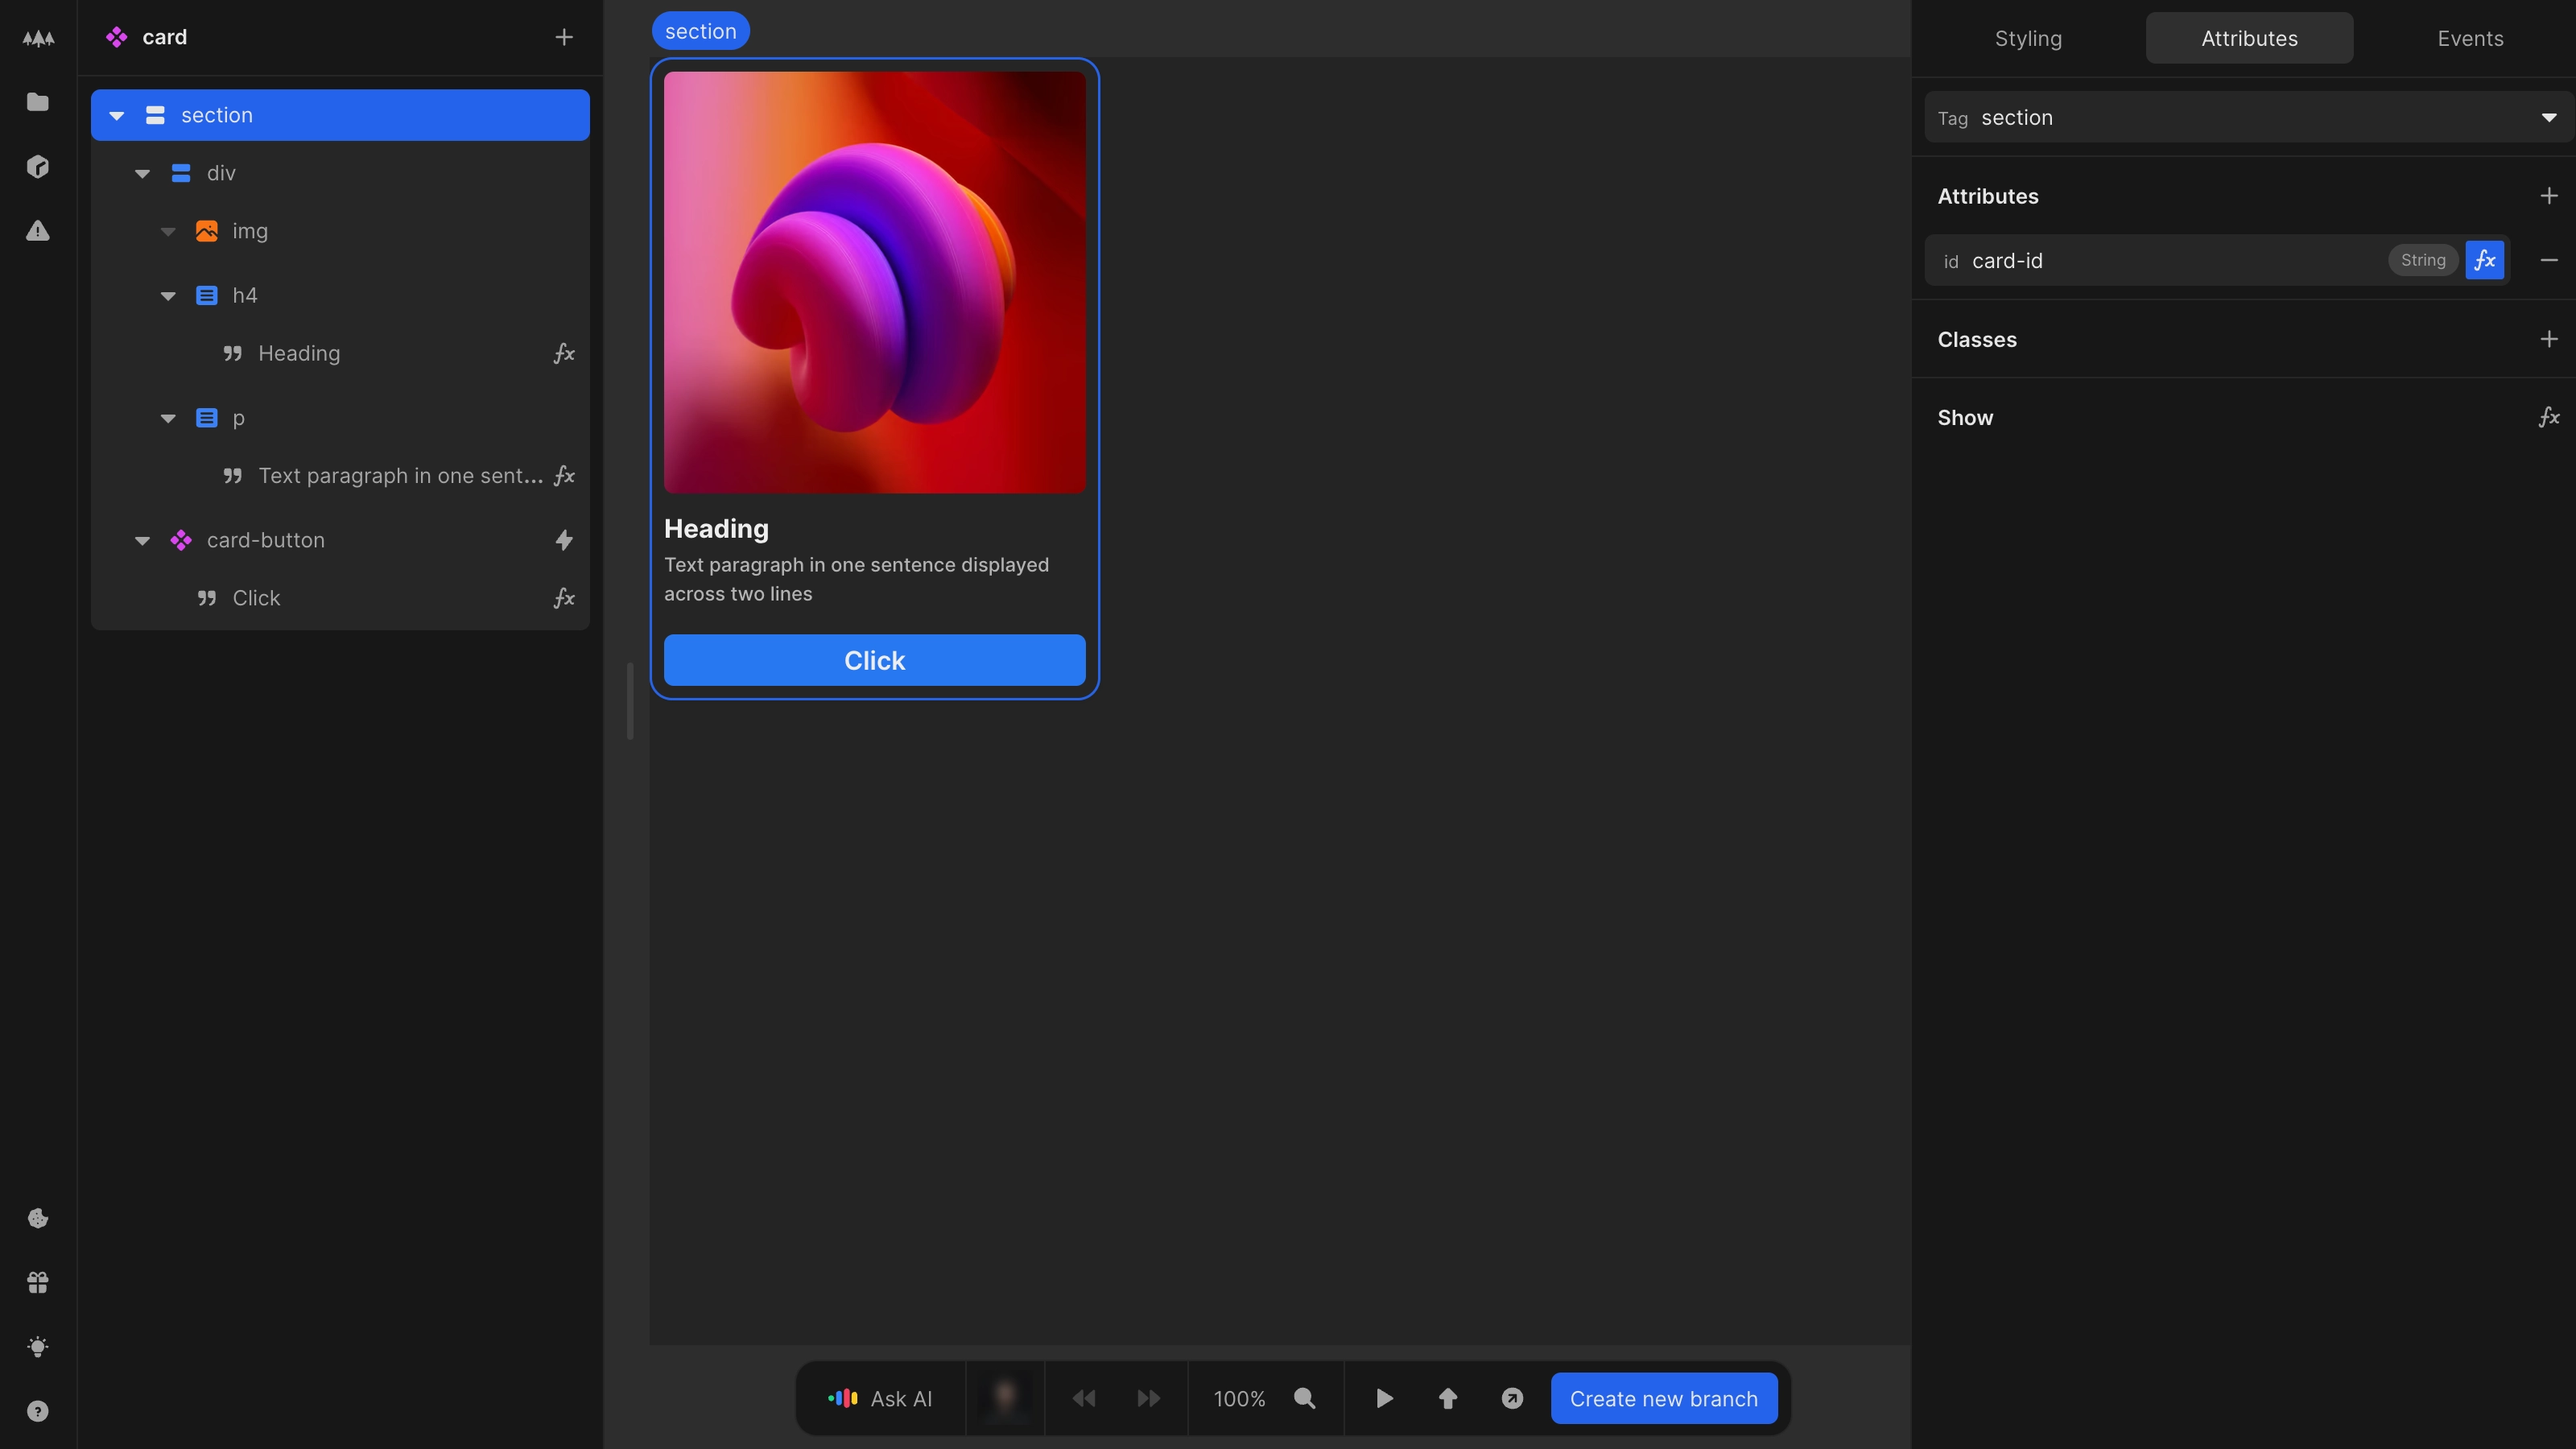
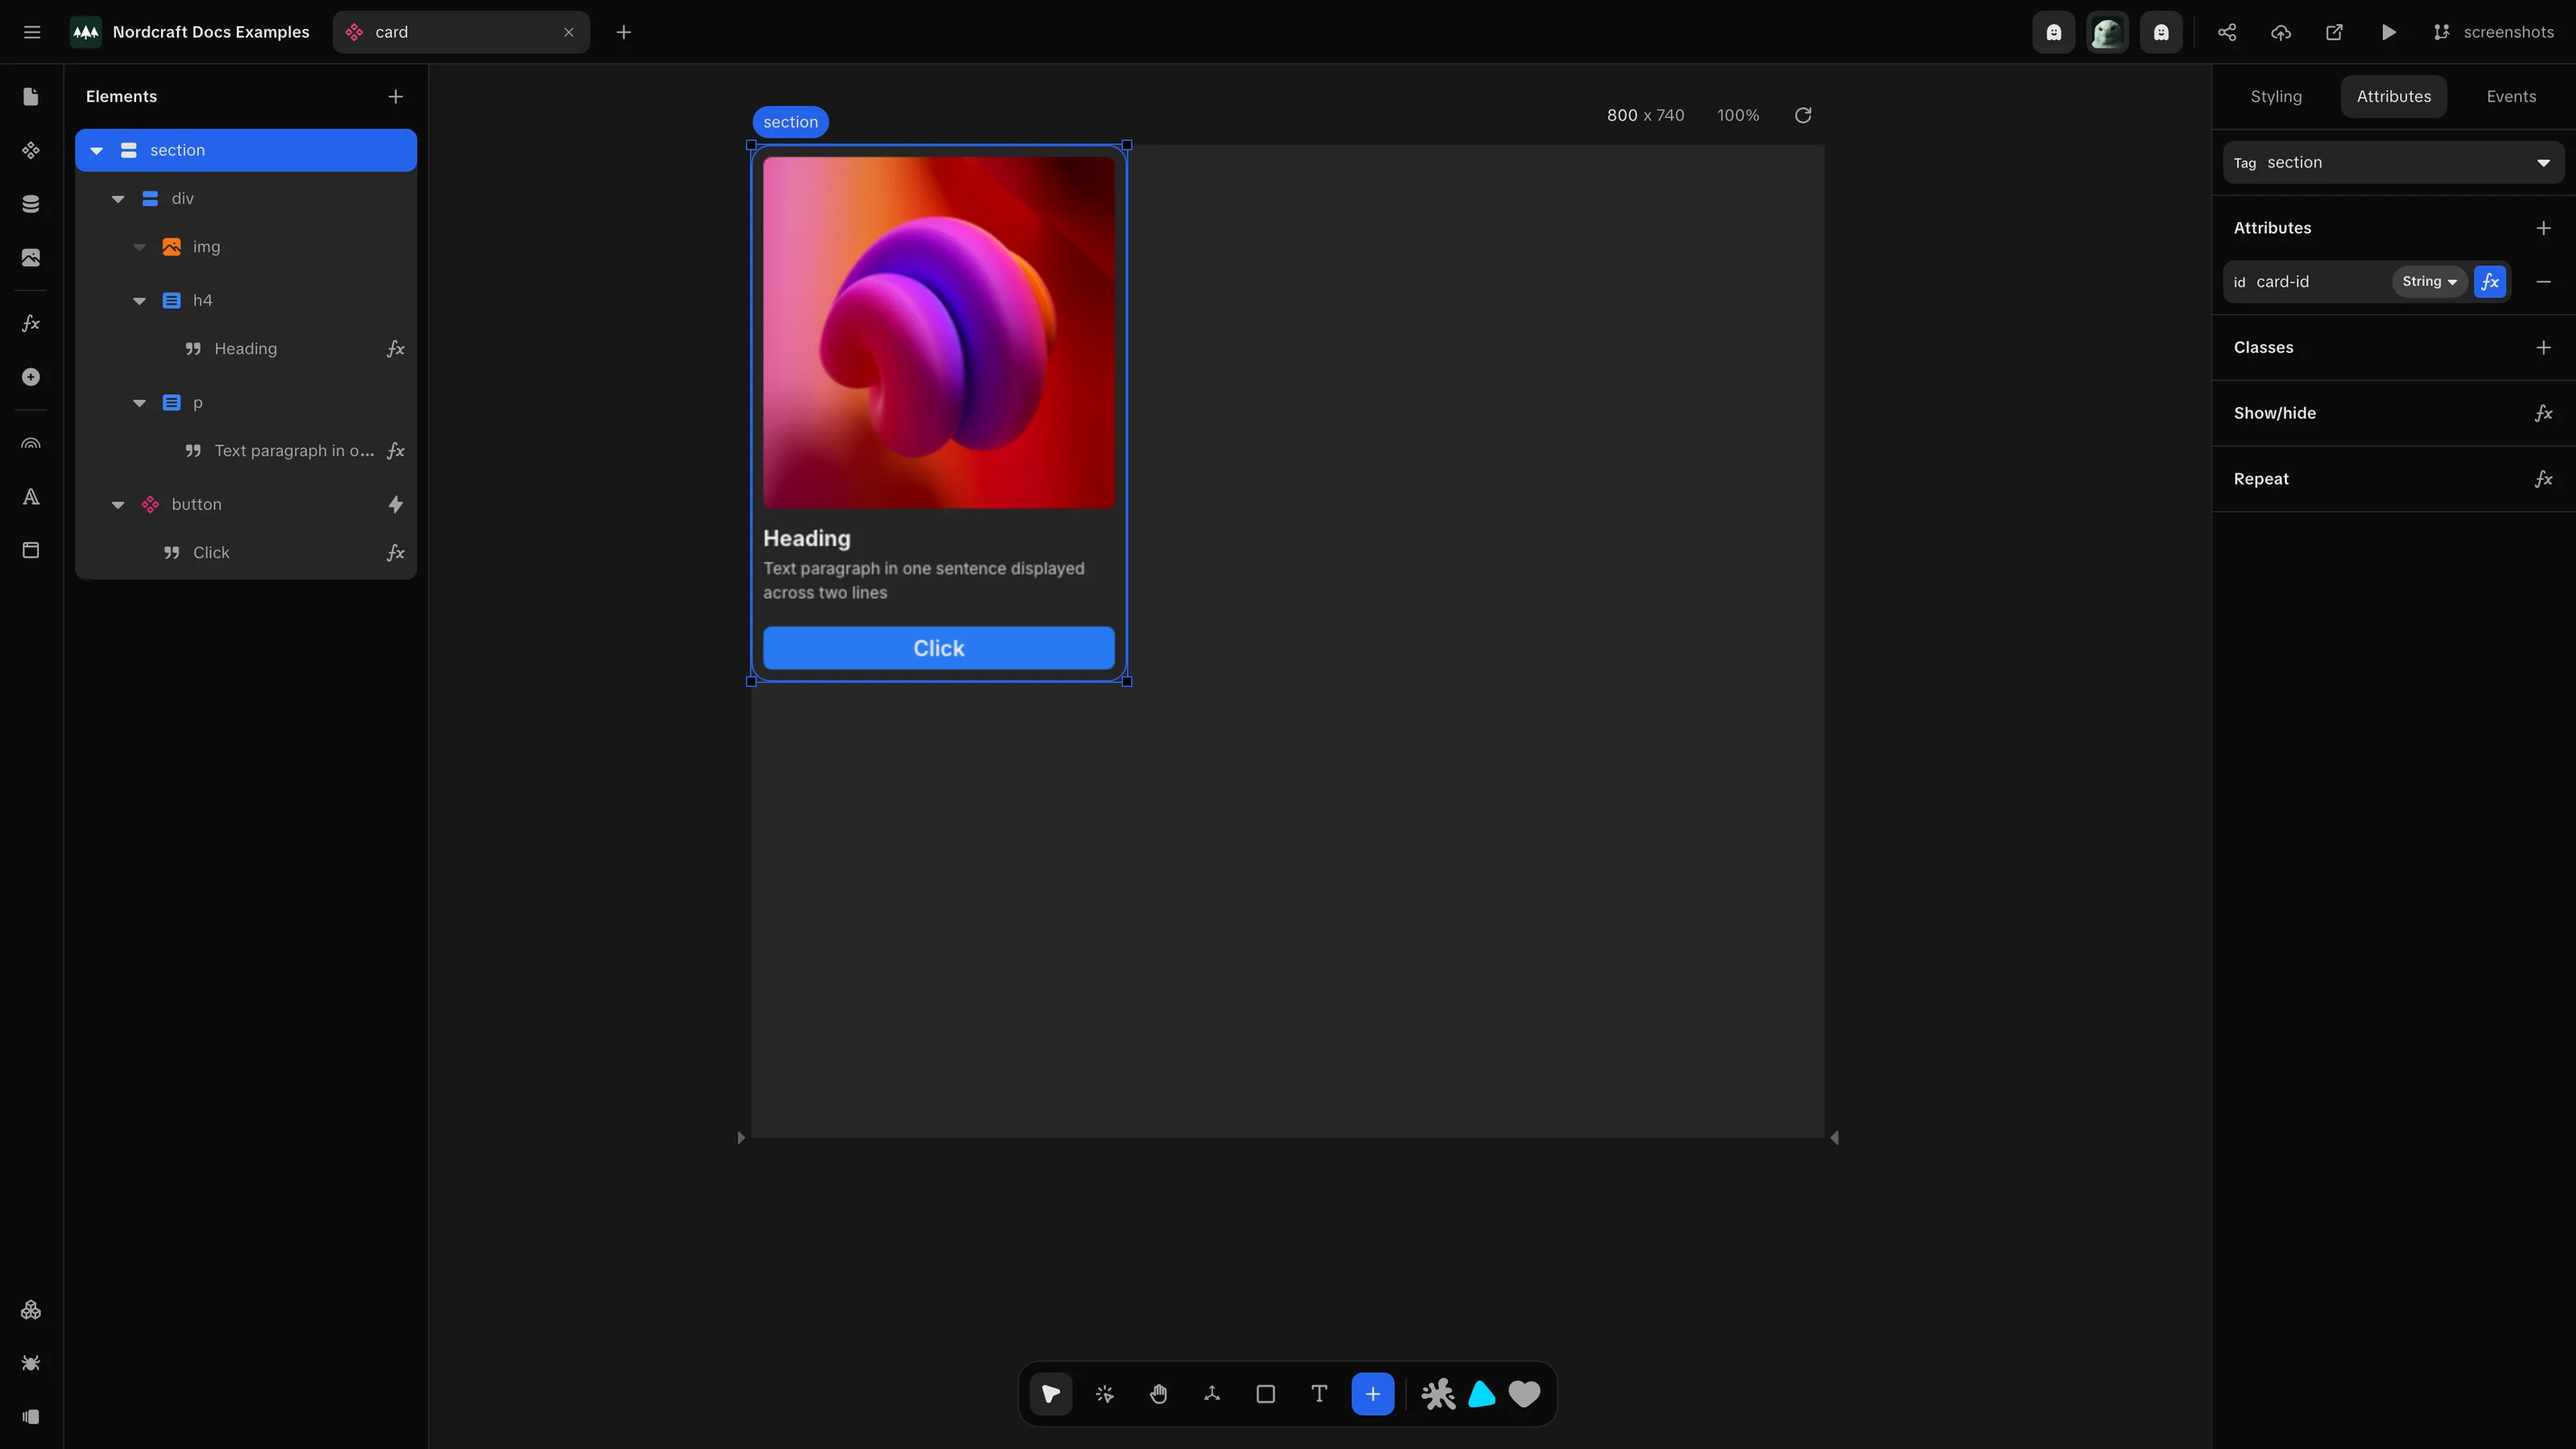
element panel attr

diff --git a/docs/the-editor/element-panel/element-panel-attributes.screenshot.ts b/docs/the-editor/element-panel/element-panel-attributes.screenshot.ts
@@ -1,0 +1,10 @@
+import { defineScreenshot } from '@/scripts/capture-screenshots'
+import type { Page } from 'playwright'
+
+// Placeholder script for element-panel-attributes.webp
+export default defineScreenshot({
+  path: '/projects/docs_examples/branches/screenshots/components/card?mode=design&canvas-tool=select&canvas-width=800&selection=nodes.root&rightpanel=attributes',
+  setup: async (page: Page) => {
+    await page.waitForTimeout(500)
+  },
+})
